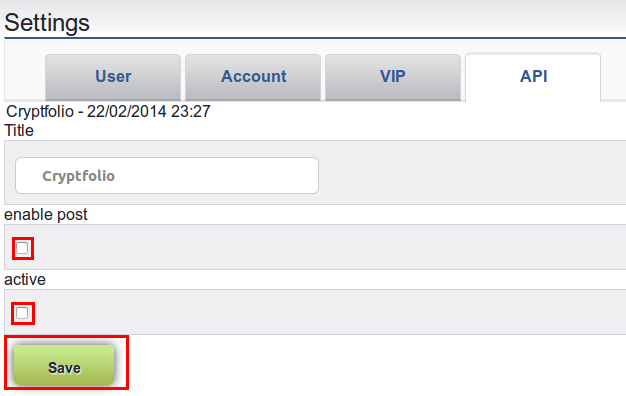
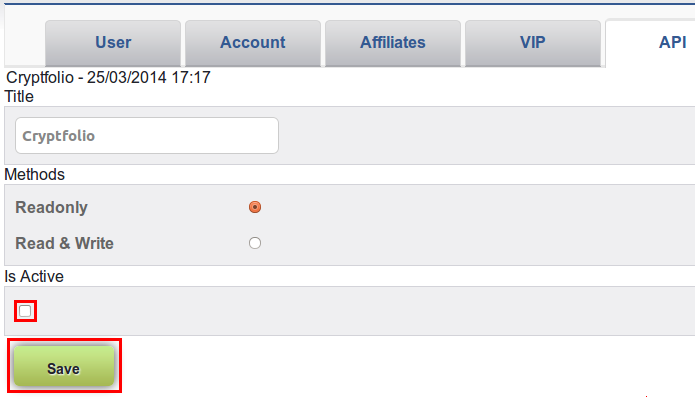
Bit2c exchange no longer unsafe.

diff --git a/templates/inline_accounts_bit2c.php b/templates/inline_accounts_bit2c.php
@@ -5,15 +5,13 @@ $account_data = array('exchange_name' => get_exchange_name('bit2c'));
 <div class="instructions_add">
 <h2>Adding a <?php echo $account_data['exchange_name']; ?> account</h2>
 
-<h3 class="unsafe_warning">Warning: Providing your <?php echo $account_data['exchange_name']; ?> account data is <a href="http://code.google.com/p/openclerk/wiki/Unsafe">unsafe</a>.</h3>
-
 <ol class="steps">
 	<li>Log into your <?php echo $account_data['exchange_name']; ?> account and visit the <a href="https://www.bit2c.co.il/FixAPI/index">API</a> page.<br>
 
 	<li>Click on "Create new".<br>
 		<img src="<?php echo htmlspecialchars(url_for('img/accounts/bit2c1.png')); ?>"></li>
 
-	<li>Enter any title you want, select "Enable POST" and click "Confirm".<br>
+	<li>Enter any title you want, make sure "Readonly" is selected and click "Confirm".<br>
 		<img src="<?php echo htmlspecialchars(url_for('img/accounts/bit2c2.png')); ?>"></li>
 
 	<li>Copy and paste your <i>Key</i> and <i>Secret</i> into the <a class="wizard_link" href="<?php echo htmlspecialchars(url_for('wizard_accounts_exchanges')); ?>">"Add new Exchange" form</a>, and click "Add account".<br>
@@ -26,11 +24,9 @@ $account_data = array('exchange_name' => get_exchange_name('bit2c'));
 <h2>Is it safe to provide <?php echo htmlspecialchars(get_site_config('site_name')); ?> a <?php echo $account_data['exchange_name']; ?> API key?</h2>
 
 <ul>
-	<li><strong class="unsafe_warning">Providing <?php echo $account_data['exchange_name']; ?> account data is <a href="http://code.google.com/p/openclerk/wiki/Unsafe">unsafe</a>;</strong>
-		you need to ensure that you trust this server, and that it is not possible for somebody to access your host or database.</li>
-
-	<li><?php echo $account_data['exchange_name']; ?> API keys are <strong>not read-only</strong>, and if someone was to
-		access your account data, they could make trades or withdraw funds using these keys.</li>
+	<li>You need to make sure that the API key is marked as <i>Readonly</i>. This should
+		mean that the API key can only be used to retrieve account status, and it should not be possible
+		to perform trades or withdraw funds using that key.</li>
 
 	<li>Your <?php echo $account_data['exchange_name']; ?> keys and secrets will <i>never</i> be displayed on the <?php echo htmlspecialchars(get_site_config('site_name')); ?>
 		site, even if you have logged in.</li>
@@ -38,7 +34,7 @@ $account_data = array('exchange_name' => get_exchange_name('bit2c'));
 	<li>Through the <?php echo $account_data['exchange_name']; ?> interface you can revoke a set of API keys&apos; access at any time by
 		going to <a href="https://www.bit2c.co.il/FixAPI/index">API</a> page and clicking the <i>delete</i> button after below the API key.<br>
 		<img src="<?php echo htmlspecialchars(url_for('img/accounts/bit2c_delete1.png')); ?>"><br>
-		Alternatively, you can disable access by clicking the <i>edit</i> button, unselecting the "<i>enable post</i>" and "<i>active</i>" checkboxes and clicking <i>Save</i>.<br>
+		Alternatively, you can disable access by clicking the <i>edit</i> button, unselecting the "<i>Is Active</i>" checkbox and clicking <i>Save</i>.<br>
 		<img src="<?php echo htmlspecialchars(url_for('img/accounts/bit2c_delete2.png')); ?>"></li>
 </ul>
 </div>

diff --git a/batch_queue.php b/batch_queue.php
@@ -79,6 +79,7 @@ $standard_jobs = array(
 	array('table' => 'addresses', 'type' => 'ripple', 'query' => ' AND currency=\'xrp\''),
 	array('table' => 'addresses', 'type' => 'namecoin', 'query' => ' AND currency=\'nmc\''), // make sure to add _block job below too
 	array('table' => 'accounts_generic', 'type' => 'generic', 'failure' => true),
+	array('table' => 'accounts_bit2c', 'type' => 'bit2c', 'failure' => true),
 	array('table' => 'accounts_btce', 'type' => 'btce', 'failure' => true),
 	array('table' => 'accounts_mtgox', 'type' => 'mtgox', 'failure' => true),
 	array('table' => 'accounts_vircurex', 'type' => 'vircurex', 'failure' => true),
@@ -158,7 +159,6 @@ if (get_site_config('allow_unsafe')) {
 	// run unsafe jobs only if the flag has been set
 	crypto_log("Running unsafe jobs.");
 	$standard_jobs = array_merge($standard_jobs, array(
-		array('table' => 'accounts_bit2c', 'type' => 'bit2c', 'failure' => true),
 		array('table' => 'accounts_cryptsy', 'type' => 'cryptsy', 'failure' => true),
 	));
 }

diff --git a/templates/inline_add_service.php b/templates/inline_add_service.php
@@ -31,11 +31,11 @@ Exchanges/pools/services that do <em>not</em> have a suitable read-only API yet 
 	<li>CoinJar (<a href="https://support.coinjar.com/discussions/suggestions/271-read-only-api-access">requested</a>)</li>
 	<li>Coinotron (on development list)</li>
 	<li>CoinEX</li>
-	<li>Coin.Mx</li>
 </ul>
 </div>
 <div class="column">
 <ul>
+	<li>Coin.Mx</li>
 	<li>Coins-E</li>
 	<li>Cryptsy (only available through an <a href="http://code.google.com/p/openclerk/wiki/Unsafe">unsafe instance</a>)</li>
 	<li>fast-pool.com</li>
@@ -45,7 +45,6 @@ Exchanges/pools/services that do <em>not</em> have a suitable read-only API yet 
 	<li>Safello</li>
 	<li>Shibepool</li>
 	<li>VirtEx (<a href="https://www.cavirtex.com/faq#tradingapi">wallet balances API coming</a>)</li>
-	<li>Bit2c (only available through an <a href="http://code.google.com/p/openclerk/wiki/Unsafe">unsafe instance</a>)</li>
 </ul>
 </div>
 </div>

diff --git a/inc/crypto.php b/inc/crypto.php
@@ -581,7 +581,7 @@ function account_data_grouped() {
 		),
 		'Exchanges' => array(
 			'bips' => array('table' => 'accounts_bips', 'group' => 'accounts', 'wizard' => 'exchanges', 'failure' => true, 'disabled' => true),
-			'bit2c' => array('table' => 'accounts_bit2c', 'group' => 'accounts', 'wizard' => 'exchanges', 'failure' => true, 'unsafe' => true),
+			'bit2c' => array('table' => 'accounts_bit2c', 'group' => 'accounts', 'wizard' => 'exchanges', 'failure' => true),
 			'bitcurex_eur' => array('table' => 'accounts_bitcurex_eur', 'group' => 'accounts', 'wizard' => 'exchanges', 'failure' => true),
 			'bitcurex_pln' => array('table' => 'accounts_bitcurex_pln', 'group' => 'accounts', 'wizard' => 'exchanges', 'failure' => true),
 			'bitstamp' => array('table' => 'accounts_bitstamp', 'group' => 'accounts', 'wizard' => 'exchanges', 'failure' => true),

diff --git a/batch_run.php b/batch_run.php
@@ -221,6 +221,10 @@ try {
 			require(__DIR__ . "/jobs/generic.php");
 			break;
 
+		case "bit2c":
+			require(__DIR__ . "/jobs/bit2c.php");
+			break;
+
 		case "btce":
 			require(__DIR__ . "/jobs/btce.php");
 			break;
@@ -554,10 +558,6 @@ try {
 			// issue #12: unsafe accounts
 			if (get_site_config('allow_unsafe')) {
 				switch ($job['job_type']) {
-					case "bit2c":
-						require(__DIR__ . "/jobs/bit2c.php");
-						break 2;
-
 					case "cryptsy":
 						require(__DIR__ . "/jobs/cryptsy.php");
 						break 2;
